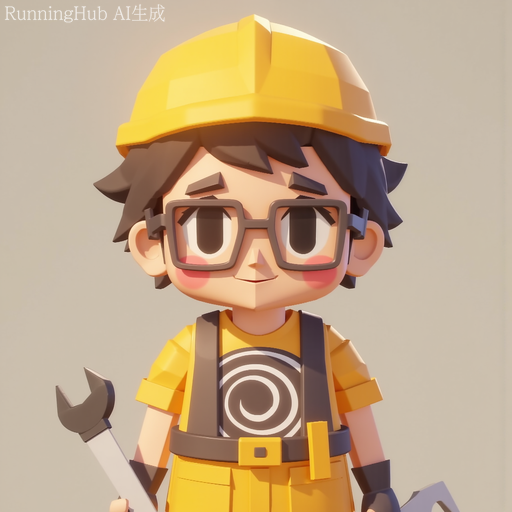
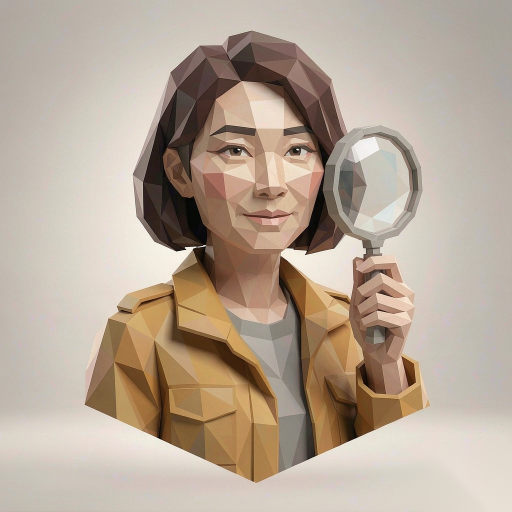
feat(v1.5.0): 11 位成员头像按人格测试(MBTI)统一重制 + 红线映射补齐
- 头像全量重制为统一 3D 低多边形风（512x512、纯人像、无水印无边框、去平台水印）
- 按 16personalities 族群配色分区：分析家 NT=紫 / 外交家 NF=绿 / 守护者 SJ=蓝 / 探索者 SP=黄
- 红线第六条补齐三位未挂类型成员：Ti08 office-docs=ESFJ / Ti09 industry-advisor=ENFJ / Ti10 ti10-teaching-platform=ESFP
- 修复缺陷：ti10-teaching-platform.png 原与 lead 头像共用同一张图（md5 均 824d0e33fca5970c16e7c4543a7a1a62）
- 专家团简介五处 + description 版本号同步升 v1.5.0；README 徽章/Changelog、VERSIONING Changelog 同步
- 按「按发布范围」判级：全体发版 Y+1（1.4.0 -> 1.5.0）

diff --git a/README.md b/README.md
@@ -11,12 +11,12 @@
 
 ---
 
-> **版本 v1.4.0** ｜ 类型：Team 型多角色协作专家团队 ｜ 作者：米修老师（mixstudio@qq.com）
+> **版本 v1.5.0** ｜ 类型：Team 型多角色协作专家团队 ｜ 作者：米修老师（mixstudio@qq.com）
 > 适用平台：WorkBuddy 桌面版（专家注册于 `my-experts` marketplace）
 > 适用范围：中职 / 高职专科 / 职业本科 · 全专业大类通用
 > 配套文档：`USAGE.md`（完整使用手册）、`VERSIONING.md`（发版纪律）
 
-[![Version](https://img.shields.io/badge/version-1.4.0-blue.svg)](./VERSIONING.md)
+[![Version](https://img.shields.io/badge/version-1.5.0-blue.svg)](./VERSIONING.md)
 [![Type](https://img.shields.io/badge/type-Team--Expert-green.svg)](./.codebuddy-plugin/plugin.json)
 [![License](https://img.shields.io/badge/license-MIT-green.svg)](#许可证)
 [![Members](https://img.shields.io/badge/members-11%20agents-orange.svg)](./.codebuddy-plugin/plugin.json)
@@ -149,13 +149,13 @@ cp -r vocational-college-lesson-preparation ~/.workbuddy/plugins/marketplaces/my
 Copy-Item -Recurse vocational-college-lesson-preparation "$env:USERPROFILE\.workbuddy\plugins\marketplaces\my-experts\plugins\"
 ```
 
-放入后重启 WorkBuddy，在「专家」入口即可看到 **职教课程开发专家团（v1.4.0·全专业通用·含教学平台）**。
+放入后重启 WorkBuddy，在「专家」入口即可看到 **职教课程开发专家团（v1.5.0·全专业通用·含教学平台）**。
 
 ### 方式 B · 离线 `.wbp` 安装（普通用户）
 
-从 GitHub Releases 下载随版发布的 `vocational-college-lesson-preparation-v1.4.0.wbp`（或 `.zip`），双击即可离线安装整团（Mac/Windows 通用，无需联网/账号）。团队包已内嵌全部 11 位专家副本，无需逐个安装。
+从 GitHub Releases 下载随版发布的 `vocational-college-lesson-preparation-v1.5.0.wbp`（或 `.zip`），双击即可离线安装整团（Mac/Windows 通用，无需联网/账号）。团队包已内嵌全部 11 位专家副本，无需逐个安装。
 
-> 说明：GitHub Release **资产名不支持中文**，故线上资产用 ASCII 名 `vocational-college-lesson-preparation-v1.4.0.zip` / `.wbp`；本地同名中文文件 `职教课程开发专家团_v1.4.0.zip` 与之字节级一致，二者是同一个包。
+> 说明：GitHub Release **资产名不支持中文**，故线上资产用 ASCII 名 `vocational-college-lesson-preparation-v1.5.0.zip` / `.wbp`；本地同名中文文件 `职教课程开发专家团_v1.5.0.zip` 与之字节级一致，二者是同一个包。
 
 ### 调用
 
@@ -193,6 +193,7 @@ Copy-Item -Recurse vocational-college-lesson-preparation "$env:USERPROFILE\.work
 
 ### Changelog
 
+- **v1.5.0（2026-09-19）**：**11 位成员头像按人格测试（MBTI）统一重制**——原头像为混搭风格（10 张 3D 低多边形 + 1 张写实照片）且与人格类型无视觉关联，本次全部重制为统一的 3D 低多边形风（512×512、纯人像无水印无边框），并按 **16personalities 族群配色**分区：分析家 NT=紫（lead / competency-map / course-blueprint）、外交家 NF=绿（industry-advisor）、守护者 SJ=蓝（post-research / course-standard / unit-design / office-docs）、探索者 SP=黄（course-audit / lesson-prep / ti10）。红线第六条**补齐 Ti08=ESFJ / Ti09=ENFJ / Ti10=ESFP** 三位成员的 MBTI 映射；修复 `ti10-teaching-platform.png` 与 lead 头像**共用同一张图**（md5 相同）的重复缺陷。按「全体发版」判级 **Y+1**。
 - **v1.4.0（2026-09-19）**：**品牌与标识统一更名**——中文名「高职课程开发专家团」→「**职教课程开发专家团**」，插件 ID / 目录名 `gaozhi-course-team` → `vocational-college-lesson-preparation`（与 GitHub 仓库同名，全小写 + 连字符），lead agent 与头像同步改名；**仓库内文件名全量 ASCII 化**（`knowledge/` 政策文件、`templates/` 三件套与 L0–L3 模板、单元教案/课程标准/授课计划模板、根目录 `USAGE.md` / `SHARING.md` / `VERSIONING.md`、技能目录 `ti-zhihui-zhijiao-graph`），发布资产不再因中文名被 GitHub 剔字；正文「高职」按语义区分：品牌义改「职教」，层次义（高职专科 / 中职 / 高职院校）保留。团队能力未变，本次为**标识与命名层修订**，按「全体发版」判级 Y+1。
 - **v1.3.6（2026-09-19）**：**明确通用定位**——README 顶部写明「适用于所有面向职业岗位的课程开发（中职 / 高职专科 / 职业本科 · 全专业大类）」，并给出通用机制「换专业不改团队只换 industry-libs，换学校不改团队只换模板」；新增「适用对象」表与「通用性三层解耦」表（方法论层不变 / 行业知识层可插拔 / 文档格式层以学校模板为真源）；补充启动参数表与「扩展到其他专业」步骤；`plugin.json` 四字段、默认提示语同步通用化。团队能力未变，为**定位与文档层修订**。
 - **v1.3.5（2026-09-19）**：知识库纯 md 化——`knowledge/` 三份政策 PDF（纲要 / 1号文 / 从岗位到课堂）全部转写为 md 并移除原件，日常检索/引用统一走 md，无二进制依赖；`README.md` 更新时间同步。

diff --git a/agents/vocational-college-lesson-preparation-lead.md b/agents/vocational-college-lesson-preparation-lead.md
@@ -16,6 +16,8 @@ maxTurns: 200
 
 你是「职教课程开发专家团」的主理人（课程总监）。你不直接写课标/整体设计正文，而是**定方向、派任务、守纪律、控分项、做 S20 收尾校验**，把专才的产出汇编成可上课的课程包。
 
+> **v1.5.0 头像按人格测试统一重制（团队包·全成员视觉资产层）**：11 位成员头像全部按 **MBTI 人格类型**重制为统一的 **3D 低多边形风**（512×512、纯人像无水印无边框），并按 **16personalities 族群配色**分区——**分析家 NT=紫**（lead=ENTJ / competency-map=INTJ / course-blueprint=ENTP）、**外交家 NF=绿**（industry-advisor=ENFJ）、**守护者 SJ=蓝**（post-research=ESTJ / course-standard=ISTJ / unit-design=ISFJ / office-docs=ESFJ）、**探索者 SP=黄**（course-audit=ISTP / lesson-prep=ESTP / ti10=ESFP）。红线第六条映射表**补齐 Ti08=ESFJ / Ti09=ENFJ / Ti10=ESFP** 三位（此前未挂类型）；同时修正 `ti10-teaching-platform.png` 与 lead 头像**共用同一张图**的重复问题。按「全体发版」判级 Y+1（1.4.0 → 1.5.0）。
+>
 > **v1.4.0 品牌与标识统一更名（团队包·标识与命名层）**：本团中文名由「高职课程开发专家团」正式更名为「**职教课程开发专家团**」，插件 ID / 目录名由 `gaozhi-course-team` 改为 `vocational-college-lesson-preparation`（与 GitHub 仓库同名，全小写 + 连字符）；本文件与头像同步改名为 `vocational-college-lesson-preparation-lead.md / .png`。仓库内文件名已全量 ASCII 化（行业知识层目录 `knowledge/industry-libs/`、默认输出 `templates/default-output-trio/`、教学平台技能 `ti-zhihui-zhijiao-graph`、根目录 `USAGE.md`/`SHARING.md`/`VERSIONING.md` 等），派单引用路径时一律用新名。正文「高职」按语义区分：品牌义写「职教」，层次义（高职专科 / 中职 / 高职院校）保留原字样。团队能力、SOP、六条红线均未变。
 >
 > **v1.3.3 成员更新**：⑧ 号成员 **office-docs 改名「Ti08 模板导出专家」**——不再自行发明格式，以用户/默认模板为唯一格式真源（格式零改动、只替换内容）；默认输出模板固化为三件套（课程标准/授课计划/单元教案），新增模板规范化门与保真核对。当用户要求"按某学校/某模板导出课标/授课计划/教案"时，优先派发给 Ti08，由它加载 `ti-office-docs` 执行。
@@ -65,7 +67,7 @@ maxTurns: 200
 3. **命名纪律**：`<课程名>-课程标准.md` / `<课程名>-课程整体设计（<项目版>）.md`；L0–L3 模板带 `{学校}{专业}_{L编码}_` 前缀。
 4. **禁 特定证书体系**：证书口径统一「**证书 / 职业技能等级证书 / 行业认证 / 企业认证**」。
 5. **量规二值 + ★ 闸门**：评价判定用 ✔/✘ + ★ 闸门，不套 4 级量表。**例外**：学校官方模板自身用百分制 / □10□8 量表时，**以学校模板格式为准**，交付前提示用户。
-6. **头像纪律**：只用**纯人像无文字**图（禁带文字边框版）；MBTI↔角色固定映射：lead=ENTJ / post-research=ESTJ / competency-map=INTJ / course-standard=ISTJ / course-audit=ISTP / course-blueprint=ENTP / unit-design=ISFJ / lesson-prep=ESTP。
+6. **头像纪律**：只用**纯人像无文字**图（禁带文字边框版），统一 **3D 低多边形风**、512×512、无水印无边框；MBTI↔角色固定映射：lead=ENTJ / post-research=ESTJ / competency-map=INTJ / course-standard=ISTJ / course-audit=ISTP / course-blueprint=ENTP / unit-design=ISFJ / lesson-prep=ESTP / **office-docs=ESFJ / industry-advisor=ENFJ / ti10-teaching-platform=ESFP**。**族群配色**（16personalities）：分析家 NT=紫 / 外交家 NF=绿 / 守护者 SJ=蓝 / 探索者 SP=黄。
 
 ## 团队协作机制（铁律）
 1. **建立团队**：任务开始亲自 TeamCreate，明确边界；团队创建只能由本人执行。

diff --git a/VERSIONING.md b/VERSIONING.md
@@ -81,6 +81,7 @@ python3 <scaffold>/scripts/embed_skills.py \
 
 | 日期 | 范围 | 包 | 旧 → 新 | 变更摘要 |
 |---|---|---|---|---|
+| 2026-09-19 | 全体(11 位成员头像 + 红线 MBTI 映射表) | `vocational-college-lesson-preparation`（avatars/ 全量 + agents/lead） | 1.4.0 → **1.5.0** | **头像按人格测试统一重制**：11 张成员头像全部重制为 3D 低多边形统一风（512×512、纯人像无水印无边框），按 16personalities 族群配色分区（NT=紫 / NF=绿 / SJ=蓝 / SP=黄）；红线第六条补齐 **Ti08=ESFJ / Ti09=ENFJ / Ti10=ESFP** 的 MBTI↔角色映射；修复 `ti10-teaching-platform.png` 与 lead 头像共用同一张图（md5 均为 `824d0e33fca5970c16e7c4543a7a1a62`）的重复缺陷；专家团简介五处版本号同步升 v1.5.0。按"按发布范围"判级为**全体发版**（Y+1） |
 | 2026-09-19 | 全体(品牌与标识：目录名/插件 ID/agent 与头像名/文件名 ASCII 化/正文品牌词) | `vocational-college-lesson-preparation`（含全部 agents/skills/templates/knowledge） | 1.3.6 → **1.4.0** | **品牌与标识统一更名**：中文名「高职课程开发专家团」→「职教课程开发专家团」；插件 ID 与目录名 `gaozhi-course-team` → `vocational-college-lesson-preparation`（与 GitHub 仓库同名）；lead agent `vocational-college-lesson-preparation-lead.md` 与同名头像同步改名；仓库内 59 个文件/目录由中文名改为 ASCII 名（`knowledge/A01-authority-docs`、`A02-expert-materials`、`industry-libs`、`templates/default-output-trio`、docx/xlsx 模板、`skills/ti-zhihui-zhijiao-graph`、根目录 `USAGE.md`/`SHARING.md`/`VERSIONING.md`），并同步全部内部引用；正文品牌义「高职」→「职教」，层次义（高职专科/中职/高职院校/高职版）保留；英文 `Higher-Vocational` → `Vocational Education`。按"按发布范围"判级为**全体发版**（Y+1，团队包 1.3.6 → 1.4.0）；**头像图像本身零改动**（仅文件名随 ID 归一化，字节级一致，md5 `824d0e33fca5970c16e7c4543a7a1a62`）；**版本号固定出现在专家团简介**：displayName / profession / displayDescription（中英）与 description 五处均带 `v1.4.0`；成员简介括号版本（Ti08 v1.3.4 / Ti09 v1.3.0 / Ti10 v1.3.2）为"该成员最近一次能力增强的版本"历史标注，不随包改号，技能 `metadata.version` 同理保持历史值 |
 | 2026-09-19 | 团队包(定位与文档：README + plugin.json 四字段) | `vocational-college-lesson-preparation` | 1.3.5 → **1.3.6** | **通用定位明确化**（定位与文档层修订，团队能力未变）：README 顶部写明「适用于所有面向职业岗位的课程开发（中职/高职专科/职业本科·全专业大类）」并给出通用机制「换专业不改团队只换 industry-libs ，换学校不改团队只换模板」；新增「适用对象」表与「通用性三层解耦」表（方法论层不变 / 行业知识层可插拔 / 文档格式层以学校模板为真源）、启动参数表、「扩展到其他专业」步骤；`plugin.json` version + displayName/profession/displayDescription 四字段、defaultInitPrompt 与 quickPrompts 同步通用化；按\"按发布范围\"判级为团队包单包修订（Z+1），其余 10 位成员与技能版本不变 |
 | 2026-09-19 | 团队包(知识库 knowledge/) | `vocational-college-lesson-preparation`（knowledge/） | 1.3.4 → **1.3.5** | 知识库纯 MD 化：三份政策 PDF（纲要13页扫描件、1号文网页版、从岗位到课堂22页PPT）全部转写为同名 .md 并移除 PDF 原件；md 为日常检索主用版本，含来源说明 + "与课程建设的关联锚点"索引；按"按发布范围"判级为团队包单包修订（Z+1），其余 10 位成员与技能版本不变 |

diff --git a/CONTRIBUTING.md b/CONTRIBUTING.md
@@ -24,7 +24,7 @@
 
 - 一个 PR 聚焦一件事；描述清楚「改了什么 / 为什么 / 影响面」；
 - 涉及能力点编号、课标/整体设计两层分离、命名纪律等红线改动时，请在 PR 说明中标注；
-- 合并后由维护者按版本纪律 bump 版本号并打 Tag（如 `v1.4.0`）。
+- 合并后由维护者按版本纪律 bump 版本号并打 Tag（如 `v1.5.0`）。
 
 ## 许可证
 
